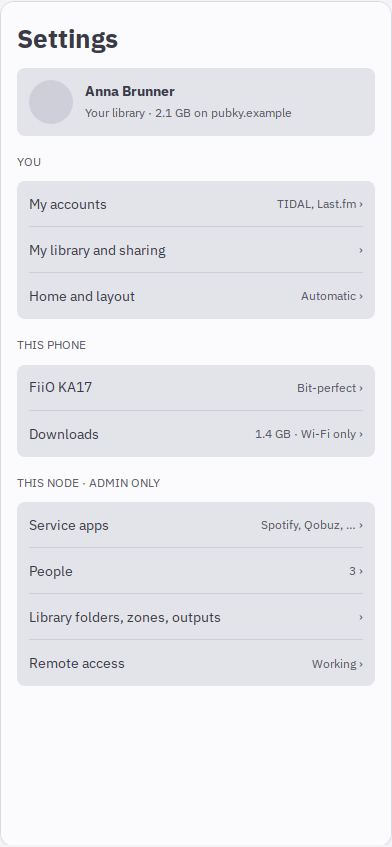
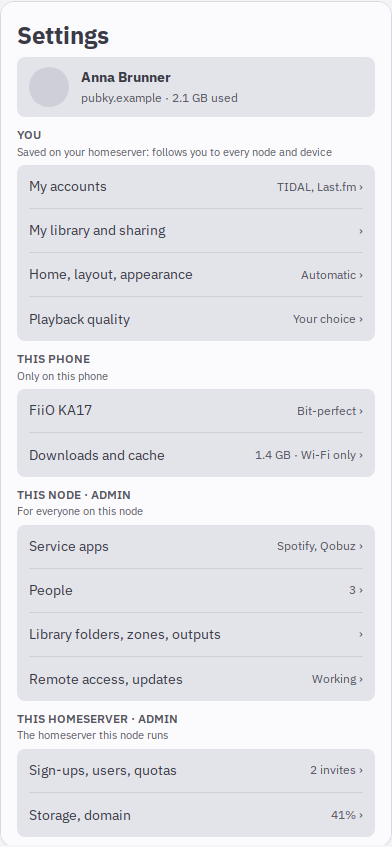
Design note: Settings in four groups by where each setting is saved (You, This phone, This node, This homeserver)

diff --git a/docs/ux/responsive/note.html b/docs/ux/responsive/note.html
@@ -173,29 +173,9 @@ figcaption b { color: var(--fg); font-weight: 600; }
     </figure>
 
     <figure>
-      <div class="wf" data-w="390" data-h="844" data-s=".62"><div class="screen" style="width:390px;height:844px;padding:20px 16px;display:flex;flex-direction:column;gap:12px">
-        <b style="font-size:26px">Settings</b>
-        <div class="b" style="padding:12px;display:flex;gap:12px;align-items:center;background:var(--wf-box)"><div class="b2 circ" style="width:44px;height:44px"></div><div class="col2" style="gap:5px"><b>Anna Brunner</b><span class="lab">Your library · 2.1 GB on pubky.example</span></div></div>
-        <span class="lab" style="margin-top:6px">YOU</span>
-        <div class="b" style="background:var(--wf-box);padding:0 12px">
-          <div class="row" style="height:46px;justify-content:space-between;border-bottom:1px solid var(--wf-box2)"><span>My accounts</span><span class="lab">TIDAL, Last.fm ›</span></div>
-          <div class="row" style="height:46px;justify-content:space-between;border-bottom:1px solid var(--wf-box2)"><span>My library and sharing</span><span class="lab">›</span></div>
-          <div class="row" style="height:46px;justify-content:space-between"><span>Home and layout</span><span class="lab">Automatic ›</span></div>
-        </div>
-        <span class="lab" style="margin-top:6px">THIS PHONE</span>
-        <div class="b" style="background:var(--wf-box);padding:0 12px">
-          <div class="row" style="height:46px;justify-content:space-between;border-bottom:1px solid var(--wf-box2)"><span>FiiO KA17</span><span class="lab">Bit-perfect ›</span></div>
-          <div class="row" style="height:46px;justify-content:space-between"><span>Downloads</span><span class="lab">1.4 GB · Wi-Fi only ›</span></div>
-        </div>
-        <span class="lab" style="margin-top:6px">THIS NODE · ADMIN ONLY</span>
-        <div class="b" style="background:var(--wf-box);padding:0 12px">
-          <div class="row" style="height:46px;justify-content:space-between;border-bottom:1px solid var(--wf-box2)"><span>Service apps</span><span class="lab">Spotify, Qobuz, … ›</span></div>
-          <div class="row" style="height:46px;justify-content:space-between;border-bottom:1px solid var(--wf-box2)"><span>People</span><span class="lab">3 ›</span></div>
-          <div class="row" style="height:46px;justify-content:space-between;border-bottom:1px solid var(--wf-box2)"><span>Library folders, zones, outputs</span><span class="lab">›</span></div>
-          <div class="row" style="height:46px;justify-content:space-between"><span>Remote access</span><span class="lab">Working ›</span></div>
-        </div>
-      </div></div>
-      <figcaption><b>Settings as one grouped list.</b> Yours first (your sign-ins, your library and who you share it with, your Home and layout); then this phone (the DAC, downloads); the node's admin screens last, for the admin only. Each row opens a page.</figcaption>
+      <div class="wf" data-w="390" data-h="844" data-s=".62"><div class="screen" style="width:390px;height:844px;padding:18px 16px;display:flex;flex-direction:column;gap:6px;overflow:hidden">
+        <b style="font-size:24px">Settings</b><div class="b" style="padding:10px 12px;display:flex;gap:12px;align-items:center;background:var(--wf-box)"><div class="b2 circ" style="width:40px;height:40px"></div><div class="col2" style="gap:4px"><b>Anna Brunner</b><span class="lab">pubky.example · 2.1 GB used</span></div></div><div class="col2" style="gap:2px;margin-top:4px"><span class="lab" style="font-weight:600">YOU</span><span class="lab" style="font-size:11px">Saved on your homeserver: follows you to every node and device</span></div><div class="b" style="background:var(--wf-box);padding:0 12px"><div class="row" style="height:44px;justify-content:space-between;border-bottom:1px solid var(--wf-box2)"><span>My accounts</span><span class="lab">TIDAL, Last.fm ›</span></div><div class="row" style="height:44px;justify-content:space-between;border-bottom:1px solid var(--wf-box2)"><span>My library and sharing</span><span class="lab">›</span></div><div class="row" style="height:44px;justify-content:space-between;border-bottom:1px solid var(--wf-box2)"><span>Home, layout, appearance</span><span class="lab">Automatic ›</span></div><div class="row" style="height:44px;justify-content:space-between"><span>Playback quality</span><span class="lab">Your choice ›</span></div></div><div class="col2" style="gap:2px;margin-top:4px"><span class="lab" style="font-weight:600">THIS PHONE</span><span class="lab" style="font-size:11px">Only on this phone</span></div><div class="b" style="background:var(--wf-box);padding:0 12px"><div class="row" style="height:44px;justify-content:space-between;border-bottom:1px solid var(--wf-box2)"><span>FiiO KA17</span><span class="lab">Bit-perfect ›</span></div><div class="row" style="height:44px;justify-content:space-between"><span>Downloads and cache</span><span class="lab">1.4 GB · Wi-Fi only ›</span></div></div><div class="col2" style="gap:2px;margin-top:4px"><span class="lab" style="font-weight:600">THIS NODE · ADMIN</span><span class="lab" style="font-size:11px">For everyone on this node</span></div><div class="b" style="background:var(--wf-box);padding:0 12px"><div class="row" style="height:44px;justify-content:space-between;border-bottom:1px solid var(--wf-box2)"><span>Service apps</span><span class="lab">Spotify, Qobuz ›</span></div><div class="row" style="height:44px;justify-content:space-between;border-bottom:1px solid var(--wf-box2)"><span>People</span><span class="lab">3 ›</span></div><div class="row" style="height:44px;justify-content:space-between;border-bottom:1px solid var(--wf-box2)"><span>Library folders, zones, outputs</span><span class="lab">›</span></div><div class="row" style="height:44px;justify-content:space-between"><span>Remote access, updates</span><span class="lab">Working ›</span></div></div><div class="col2" style="gap:2px;margin-top:4px"><span class="lab" style="font-weight:600">THIS HOMESERVER · ADMIN</span><span class="lab" style="font-size:11px">The homeserver this node runs</span></div><div class="b" style="background:var(--wf-box);padding:0 12px"><div class="row" style="height:44px;justify-content:space-between;border-bottom:1px solid var(--wf-box2)"><span>Sign-ups, users, quotas</span><span class="lab">2 invites ›</span></div><div class="row" style="height:44px;justify-content:space-between"><span>Storage, domain</span><span class="lab">41% ›</span></div></div></div></div>
+      <figcaption><b>Settings in four groups, by where each setting is saved.</b> <i>You</i> (on your homeserver, so it follows you), <i>This phone</i> (only this device), <i>This node</i> and <i>This homeserver</i> (admin only; the last appears only when the node runs its own homeserver). Every setting sits in exactly one group; where a node default and your own choice both exist (playback quality), the node holds the default and <i>You</i> the override, and each row says which applies. The list scrolls on a phone; on tablets and desktops the four groups are the left pane.</figcaption>
     </figure>
   </div>
 </section>

diff --git a/docs/ux/responsive.md b/docs/ux/responsive.md
@@ -9,14 +9,19 @@ STEWARD-UX-RESPONSIVE.md step 1. **Waiting for the owner's look before anything 
 - **Same parts at every width;** only the arrangement and density change. Safe areas, both themes, reduced motion, font scale 1.3.
 
 ## Phone (under 600 px)
-| Library, mini player, tab bar | Now playing, one screen | A sheet over Now playing | Settings, one grouped list |
+| Library, mini player, tab bar | Now playing, one screen | A sheet over Now playing | Settings, four groups |
 | :-: | :-: | :-: | :-: |
 | ![](responsive/phone-library.png) | ![](responsive/phone-now-playing.png) | ![](responsive/phone-queue-sheet.png) | ![](responsive/phone-settings.png) |
 
 - **Tabs:** Home, Search, Library, Zones. The mini player above them carries the quality and the zone.
 - **Library:** my library first; shared libraries and Downloads as their own sections.
 - **Now playing:** art; title with the heart; the quality label (opens the quality sheet); scrubber; transport. One row opens the five sheets; swipe down collapses it.
-- **Settings:** yours first, then this phone, then the node's admin screens.
+- **Settings:** four groups, by where each setting is saved (STEWARD-SETTINGS-GROUPS.md). Each group header says where in one line:
+  - **You:** saved on your homeserver, so it follows you to every node and device. My accounts, My library and sharing, Home, layout and appearance, playback quality.
+  - **This phone:** only on this device. The USB DAC and bit-perfect, Downloads and cache.
+  - **This node (admin):** for everyone on this node. Service apps, People, Library folders, zones and outputs, Remote access and updates.
+  - **This homeserver (admin, only when the node runs its own):** sign-ups and invites, users, quotas, storage, domain.
+  - Every setting sits in exactly one group. Where a node default and your own choice both exist (playback quality), the node group holds the default and You holds the override; each row says which applies. On tablets and desktops the groups are the left pane.
 
 ## Tablet (600–1024 px)
 ![](responsive/tablet-now-playing.png)
